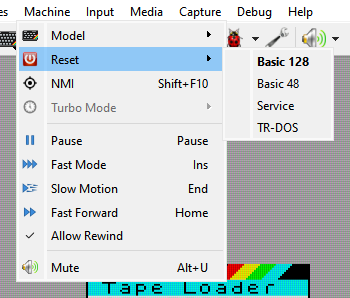
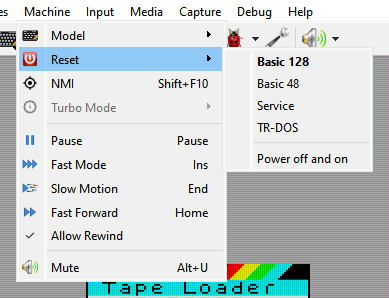
divmmc: debugger reads and labels the board's memory (DIV:), MEMMAP shows it; manual: the divMMC section, Power off and on, new shots

diff --git a/src/xgui/debuga/debuger.cpp b/src/xgui/debuga/debuger.cpp
@@ -812,6 +812,7 @@ DebugWin::DebugWin(QWidget* par):QMainWindow(par) {
 		mmapForced[i] = -1;
 		mmapType[i]->addItem("ROM", MEM_ROM);
 		mmapType[i]->addItem("RAM", MEM_RAM);
+		if (i == 0) mmapType[i]->addItem("DIV", MEM_DIV);	// a divMMC's, shown, not forced
 		// this column is narrow and the stack panel under it lives with whatever
 		// width is set here - fitMMapBoxes() pins it to the text and the arrow
 		// no XHS_BGR: this field is lit by the forced mark, not by the value moving
@@ -2094,6 +2095,9 @@ void DebugWin::fillMem() {
 	for (int i = 0; i < 4; i++) {
 		pg = comp->mem->map[i << 6];
 		page = pg.num >> 6;
+		// a divMMC's window: the 8K bank of its SRAM at #2000
+		if (pg.type == MEM_DIV)
+			page = (((comp->mem->map[0x20].num << 8) - DIV_EE_SIZE) >> 13) & 0xff;
 		// the machine pages whenever it likes and says nothing: a bank stays
 		// marked as forced only while the value put there is still in the map
 		if (mmapForced[i] != ((pg.type << 16) | page)) mmapForced[i] = -1;
@@ -2112,6 +2116,10 @@ void DebugWin::mmapEdit(int bank) {
 	Computer* comp = conf.zx;
 	int type = getRFIData(mmapType[bank]);
 	int page = mmapPage[bank]->getValue();
+	if ((type == MEM_DIV) || (comp->mem->map[bank << 6].type == MEM_DIV)) {
+		fillMem();		// the board's own paging: not something to force
+		return;
+	}
 	memSetBank(comp->mem, bank << 6, type, page, MEM_16K, NULL, NULL, NULL);
 	rzx_rec_touch();
 	mmapForced[bank] = (type << 16) | page;
@@ -2171,6 +2179,7 @@ int rdbyte(int adr, void* ptr) {
 		// through the map: the page the machine has in the window is
 		// the one the bank's own reader knows how to find
 		case MEM_SLOT: res = memRd(comp->mem, adr & 0xffff); break;
+		case MEM_DIV: res = comp->div->data[fadr % (DIV_EE_SIZE + DIV_RAM_MAX)]; break;
 	}
 	return res;
 }

diff --git a/src/xgui/options/setupwin.cpp b/src/xgui/options/setupwin.cpp
@@ -1855,10 +1855,13 @@ void SetupWin::buildDevices() {
 
 	// a divMMC on the edge connector; its cards are the Drives menu's
 	divBox = devCombo(QStringList() << tr("None") << tr("divMMC EnJOY!"));
+	divBox->setObjectName("divBox");
 	xOptSheet dv;
 	divRamBox = devCombo(QStringList() << tr("128K") << tr("512K"));
+	divRamBox->setObjectName("divRamBox");
 	dv.field(tr("RAM"), divRamBox);
 	divWrBox = new QCheckBox;
+	divWrBox->setObjectName("divWrBox");
 	dv.check(divWrBox, tr("EEPROM writable"), tr("The jumper open: firmware can be written, automap needs MAPRAM"));
 	dv.line();
 	divEeSum = new QLabel;
@@ -1866,7 +1869,7 @@ void SetupWin::buildDevices() {
 	QHBoxLayout* eeLay = new QHBoxLayout(ee);
 	eeLay->setContentsMargins(0, 0, 0, 0);
 	eeLay->addWidget(divEeSum, 1);
-	const char* eeIcon[3] = {":/images/fileopen.png", ":/images/save_all.png", ":/images/tape-eject.png"};
+	const char* eeIcon[3] = {":/images/fileopen.png", ":/images/save_all.png", ":/images/cancel.png"};
 	QString eeTip[3] = {tr("Load an image into the EEPROM"), tr("Save the EEPROM to a file"), tr("Erase the EEPROM")};
 	for (int i = 0; i < 3; i++) {
 		QToolButton* tb = new QToolButton;
@@ -1877,6 +1880,7 @@ void SetupWin::buildDevices() {
 	}
 	dv.field(tr("EEPROM"), ee);
 	btn = devRow(grid, tr("divMMC"), divBox, dv.body, "Machine: divMMC");
+	btn->setObjectName("divGear");
 	divRow << grid->itemAtPosition(grid->rowCount() - 1, 0)->widget() << divBox << btn;
 
 	slotSum = new QLabel;

diff --git a/src/xgui/debuga/dbg_dump.cpp b/src/xgui/debuga/dbg_dump.cpp
@@ -51,6 +51,7 @@ int xDumpModel::mrd(int adr) const {
 				case MEM_RAM: res = comp->mem->ramData[fadr & comp->mem->ramMask]; break;
 				case MEM_SLOT: res = memRd(comp->mem, adr % maxadr);
 					break;
+				case MEM_DIV: res = comp->div->data[fadr % (DIV_EE_SIZE + DIV_RAM_MAX)]; break;
 			}
 			res |= getBrk(comp, adr % maxadr) << 8;
 			break;
@@ -88,6 +89,13 @@ void xDumpModel::mwr(int adr, unsigned char bt) {
 					comp->mem->ramData[fadr & comp->mem->ramMask] = bt;
 					break;
 				case MEM_SLOT:
+					break;
+				case MEM_DIV:		// its SRAM, and its EEPROM as a ROM is
+					fadr %= DIV_EE_SIZE + DIV_RAM_MAX;
+					if ((fadr >= DIV_EE_SIZE) || conf.dbg.romwr) {
+						comp->div->data[fadr] = bt;
+						if (fadr < DIV_EE_SIZE) comp->div->eeDirty = 1;
+					}
 					break;
 			}
 			break;

diff --git a/src/xgui/debuga/dbg_disasm.cpp b/src/xgui/debuga/dbg_disasm.cpp
@@ -234,6 +234,7 @@ int dasmrd(int adr, void* ptr) {
 				case MEM_RAM: res = comp->mem->ramData[fadr & comp->mem->ramMask]; break;
 				case MEM_SLOT: res = memRd(comp->mem, adr);
 					break;
+				case MEM_DIV: res = comp->div->data[fadr % (DIV_EE_SIZE + DIV_RAM_MAX)]; break;
 			}
 			break;
 		case XVIEW_RAM:
@@ -502,6 +503,7 @@ QList<dasmData> getDisasm(Computer* comp, int& adr) {
 			case MEM_ROM: drow.aname = "ROM:"; break;
 			case MEM_SLOT: drow.aname = "SLT:"; break;
 			case MEM_EXT: drow.aname = "EXT:"; break;
+			case MEM_DIV: drow.aname = "DIV:"; break;
 			default: drow.aname = "???"; break;
 		}
 		drow.aname.append(QString("%1:%2").arg(gethexbyte((xadr.bank >> 6) & 0xff)).arg(gethexword(xadr.adr & 0x3fff)));

diff --git a/src/xgui/debuga/dbg_rdump.cpp b/src/xgui/debuga/dbg_rdump.cpp
@@ -119,6 +119,7 @@ QVariant xRDumpModel::data(const QModelIndex& idx, int role) const {
 					case MEM_ROM: res = gethexbyte(mem->romData[fadr & mem->romMask]); break;
 					case MEM_RAM: res = gethexbyte(mem->ramData[fadr & mem->ramMask]); break;
 					case MEM_SLOT: res = gethexbyte(memRd(mem, adr)); break;
+					case MEM_DIV: res = gethexbyte(conf.zx->div->data[fadr % (DIV_EE_SIZE + DIV_RAM_MAX)]); break;
 					default: res = "--";
 						break;
 				}

diff --git a/src/xgui/labelist.cpp b/src/xgui/labelist.cpp
@@ -80,6 +80,7 @@ QVariant xLabelistModel::data(const QModelIndex& idx, int role) const {
 					case MEM_RAM: adrstr.prepend("RAM:"); break;
 					case MEM_ROM: adrstr.prepend("ROM:"); break;
 					case MEM_SLOT: adrstr.prepend("SLT:"); break;
+					case MEM_DIV: adrstr.prepend("DIV:"); break;
 					case MEM_EXT: adrstr.prepend("EXT:"); break;
 					case MEM_IO: adrstr = QString("CPU:%0").arg(gethexword(xadr.adr));
 				}

diff --git a/src/xgui/debuga/dbg_heat.cpp b/src/xgui/debuga/dbg_heat.cpp
@@ -414,6 +414,7 @@ void xHeatView::mouseMoveEvent(QMouseEvent* ev) {
 			case MEM_RAM: tp = "RAM"; break;
 			case MEM_ROM: tp = "ROM"; break;
 			case MEM_SLOT: tp = "SLT"; break;
+			case MEM_DIV: tp = "DIV"; break;
 			case MEM_IO: tp = "IO"; break;
 		}
 		// every number in the readout carries the listing's own hash, the way

diff --git a/src/xcore/breakpoints.cpp b/src/xcore/breakpoints.cpp
@@ -451,6 +451,7 @@ static QString brk_log_cell(Computer* comp, int cadr) {
 		case MEM_RAM: nm = "RAM"; break;
 		case MEM_ROM: nm = "ROM"; break;
 		case MEM_SLOT: nm = "SLT"; break;
+		case MEM_DIV: nm = "DIV"; break;
 		default: nm = "EXT"; break;
 	}
 	return brk_log_page(nm, xa.abs);

diff --git a/src/xgui/debuga/dbg_memfill.cpp b/src/xgui/debuga/dbg_memfill.cpp
@@ -41,6 +41,11 @@ void xMemFiller::mwr(int adr, int val) {
 			break;
 		case MEM_SLOT:
 			break;
+		case MEM_DIV:
+			fadr %= DIV_EE_SIZE + DIV_RAM_MAX;
+			if ((fadr >= DIV_EE_SIZE) || conf.dbg.romwr)
+				conf.zx->div->data[fadr] = val & 0xff;
+			break;
 	}
 }
 

diff --git a/src/watcher.cpp b/src/watcher.cpp
@@ -93,6 +93,7 @@ QString getBankType(int type) {
 		case MEM_ROM: res = "ROM"; break;
 		case MEM_RAM: res = "RAM"; break;
 		case MEM_SLOT: res = "SLT"; break;
+		case MEM_DIV: res = "DIV"; break;
 		default: res = "EXT"; break;
 	}
 	return res;

diff --git a/docs/manual/disks.md b/docs/manual/disks.md
@@ -4,7 +4,8 @@
 ```
 
 A machine can have floppy drives, hard disks, an SD card or a cartridge slot, depending on
-the hardware it copies. The **Media** menu lists only what the running machine has.
+the hardware it copies, and a divMMC can be added to the Sinclair models. The **Media** menu
+lists only what the running machine has.
 
 ## Which machine has what
 
@@ -13,9 +14,9 @@ the hardware it copies. The **Media** menu lists only what the running machine h
 
 | Machine | Floppy | Hard disk | Other |
 |---|---|---|---|
-| ZX Spectrum 48K | - | - | cartridge |
-| ZX Spectrum 128K, +2, +2A | - | - | |
-| ZX Spectrum +3 | +3 drives | - | |
+| ZX Spectrum 48K | - | - | cartridge, divMMC |
+| ZX Spectrum 128K, +2, +2A | - | - | divMMC |
+| ZX Spectrum +3 | +3 drives | - | divMMC |
 | Pentagon, Pentagon 1024 SL | Beta Disk | - | |
 | Scorpion ZS 256 | Beta Disk | - | |
 | Scorpion ZS 256 Turbo+ | Beta Disk | SMUC | |
@@ -224,6 +225,60 @@ the slot, or **(no card)**, and has:
 
 What the machine writes to a card image goes into the image file at once. To start with a
 card, use `--sdcard <file or folder>` on the [command line](command-line.md).
+
+## divMMC
+
+```{index} divMMC, esxDOS, EEPROM, MAPRAM, Power off and on
+```
+
+```{index} see: DivMMC EnJOY!; divMMC
+```
+
+The divMMC is an SD card interface for the ZX Spectrum 48K, 128K, +2, +2A and +3. The one
+emulated is the **divMMC EnJOY!** by ByteDelight, built on the original design by Mario
+Prato: 8 KB of EEPROM for the firmware, 128 KB or 512 KB of RAM, and two SD card slots. The
+firmware most people run on it is esxDOS, which loads `.tap`, `.sna`, `.z80` and `.trd` files
+from the card and adds dot commands to BASIC.
+
+### Setting it up
+
+1. On the **Machine** page of **Options**, set the **divMMC** row to **divMMC EnJOY!**.
+   The {icon}`settings` gear opens **Machine: divMMC**:
+   - **RAM** - **128K** or **512K**.
+   - **EEPROM writable** - the board's EEPROM jumper. Leave it off: on, the firmware can be
+     written, and the board stays out of the way until the firmware sets MAPRAM.
+   - **EEPROM** - **erased** or **written**, and three buttons: {icon}`fileopen` load an
+     image into the EEPROM, {icon}`save_all` save it to a file, {icon}`cancel` erase it.
+2. Get the firmware. esxDOS is not shipped with the emulator: download it from
+   [esxdos.org](http://www.esxdos.org). Load `ESXMMC.BIN` from its archive with the
+   {icon}`fileopen` button, or flash it the way the real board is flashed: turn **EEPROM
+   writable** on, load `ESXMMC.TAP` and follow it, turn the option off, then use
+   **Machine > Reset > Power off and on**. With the EEPROM erased and the option off, the
+   machine stops at its first interrupt, as it does with a real board that has no firmware.
+3. Prepare a card: an image with an MBR and one FAT16 or FAT32 partition, holding the `SYS`,
+   `BIN` and `TMP` folders from the esxDOS archive. A folder with these three works too.
+4. Put the card in: **Media > SD Card > Card 1** has **Open Image...**, **Open Folder...**,
+   **Eject** and **Write Protect**, as the ZX Evolution's card has. **Card 2** is the second
+   slot.
+
+![Machine: divMMC](images/options-divmmc.png)
+
+What the EEPROM holds is kept with the machine and is there again at the next start. A
+change made with the three buttons takes effect at once, without **Apply**.
+
+### Using it
+
+- The firmware starts on every reset, then goes to 48K BASIC. Type `.ls` for the files on
+  the card and `.cd` to go into a folder; the dot commands are the files in `BIN`.
+- **Machine > NMI** (Shift+F10 in the Modern preset, F10 in the Classic one) is the board's
+  NMI button: esxDOS opens its file browser.
+- A folder used as a card is read only: esxDOS reports `I/O ERROR` when it tries to write.
+  Use an image to save.
+- **Machine > Reset > Power off and on** clears what a reset keeps: the board's MAPRAM
+  setting and its RAM. A firmware flashed by `ESXMMC.TAP` runs from RAM until then.
+- esxDOS runs in 48K BASIC. 128 BASIC and +3 BASIC stop working with the board on, as they
+  do on the real one.
+- A snapshot saved as SZX keeps the board's state; other formats leave it out.
 
 ## Hard disks
 

diff --git a/docs/manual/machines.md b/docs/manual/machines.md
@@ -115,6 +115,13 @@ resets in both hotkey presets.
 To change the ROM a plain reset starts from, click the {icon}`settings` **ROM** button on
 the **Machine** page of **Options** and mark another ROM (see [ROM images](#rom-images)).
 
+```{index} Power off and on
+```
+
+**Power off and on**, at the end of the list, switches the machine off and on again. The RAM
+comes up as the machine's does at power-on, and so does a [divMMC](disks.md#divmmc), which a
+reset leaves as it is. The CMOS memory, an EEPROM and the media keep what they hold.
+
 ```{index} Reset to 48K, Reset to 128K, Reset to DOS, Reset to Service
 ```
 
@@ -129,7 +136,8 @@ the key only shows a short message.
 
 **Machine > NMI** sends a non-maskable interrupt to the CPU. What happens then is up to the
 machine's ROM. It does nothing while an RZX recording plays. The key is F10 in the Classic
-preset and Shift+F10 in the Modern one.
+preset and Shift+F10 in the Modern one. With a [divMMC](disks.md#divmmc) on, it is the
+board's NMI button.
 
 ## Turbo and speed
 
@@ -188,6 +196,7 @@ set.
 | | **Disk** | **None**, **Beta Disk (WD1793)** or **+3 (uPD765)**; drives and the TR-DOS ROM in its window (see [Disks and drives](disks.md)) |
 | | **Hard disk** | the IDE interface; **Master** and **Slave** in its window |
 | | **SD card** | ZX Evolution only: the card in use |
+| | **divMMC** | 48K, 128K, +2, +2A and +3 only: **None** or **divMMC EnJOY!**; RAM, EEPROM jumper and the EEPROM image in its window (see [divMMC](disks.md#divmmc)) |
 | | **Cartridge** | 48K and ALF only: the cartridge in use |
 | **Input** | **Joystick** | **None**, **Kempston 5-bit**, **Kempston 8-bit** |
 | | **Mouse** | **None** or **Kempston mouse**; sensitivity and wheel in its window |
